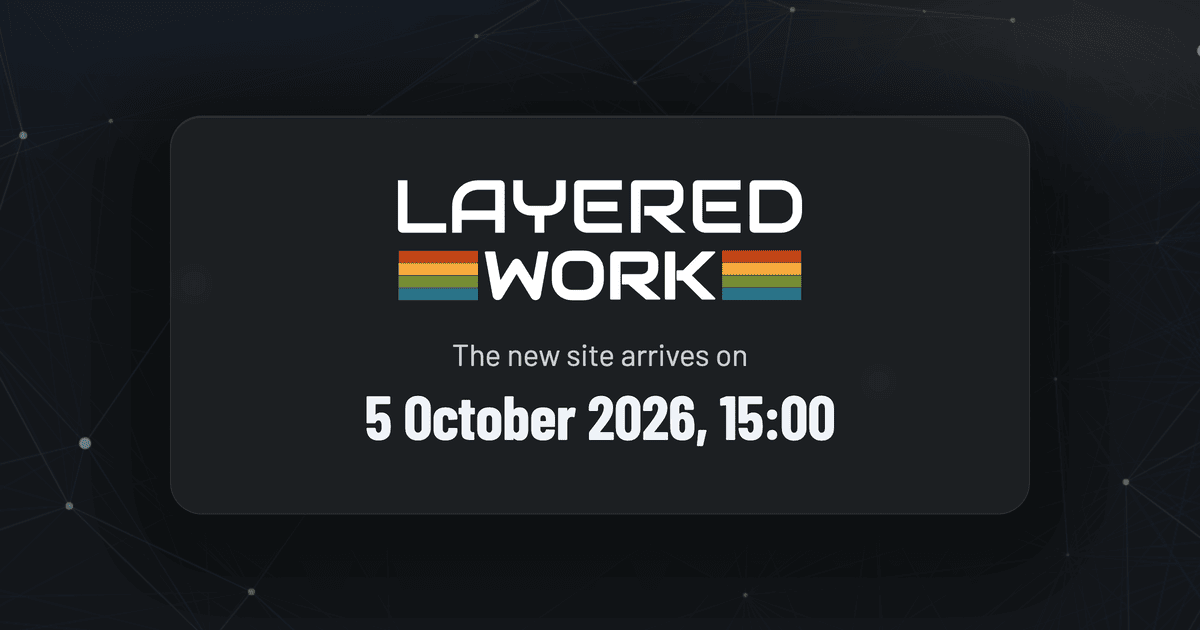
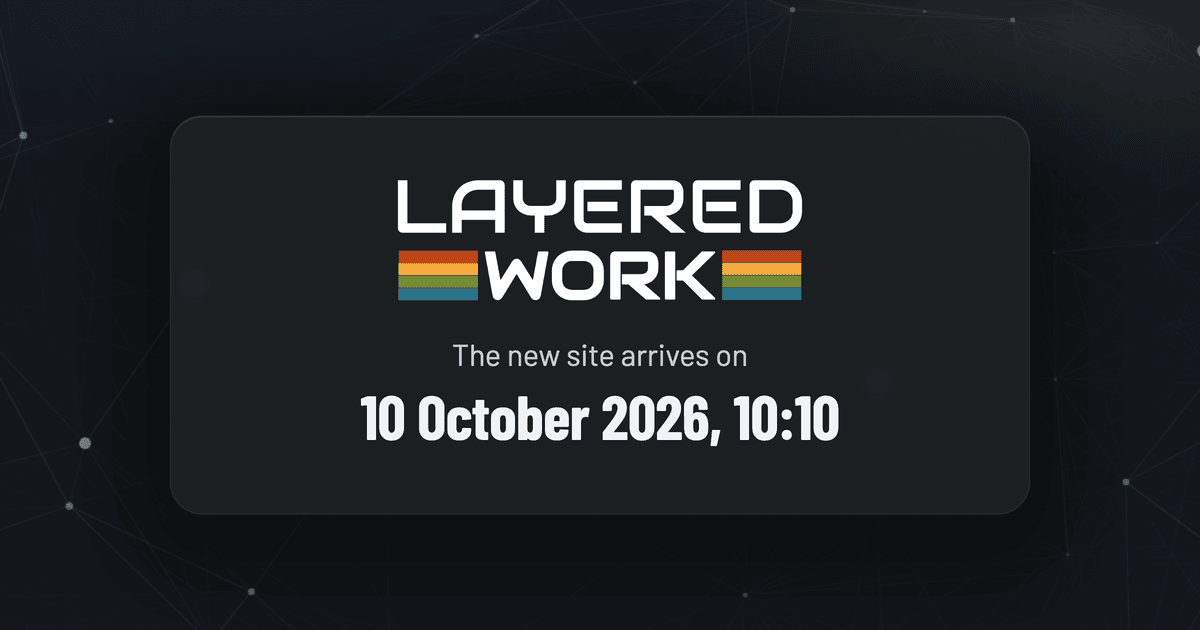
Chore: Move the launch to 10 October 2026, 10:10
- LAUNCH is now 2026-10-10T10:10:00+02:00 (Bregenz, CEST)
- og.png rendered again with the new date

Changed region(s): [[0.3083, 0.6032, 0.7092, 0.7238]]

diff --git a/apps/website/src/site.ts b/apps/website/src/site.ts
@@ -15,7 +15,7 @@
  * whose target depends on the reader's own clock counts to a different moment
  * for every reader. Bregenz is UTC+2 until the last Sunday in October.
  */
-export const LAUNCH = "2026-10-05T15:00:00+02:00";
+export const LAUNCH = "2026-10-10T10:10:00+02:00";
 
 /**
  * The zone the site keeps time in.
